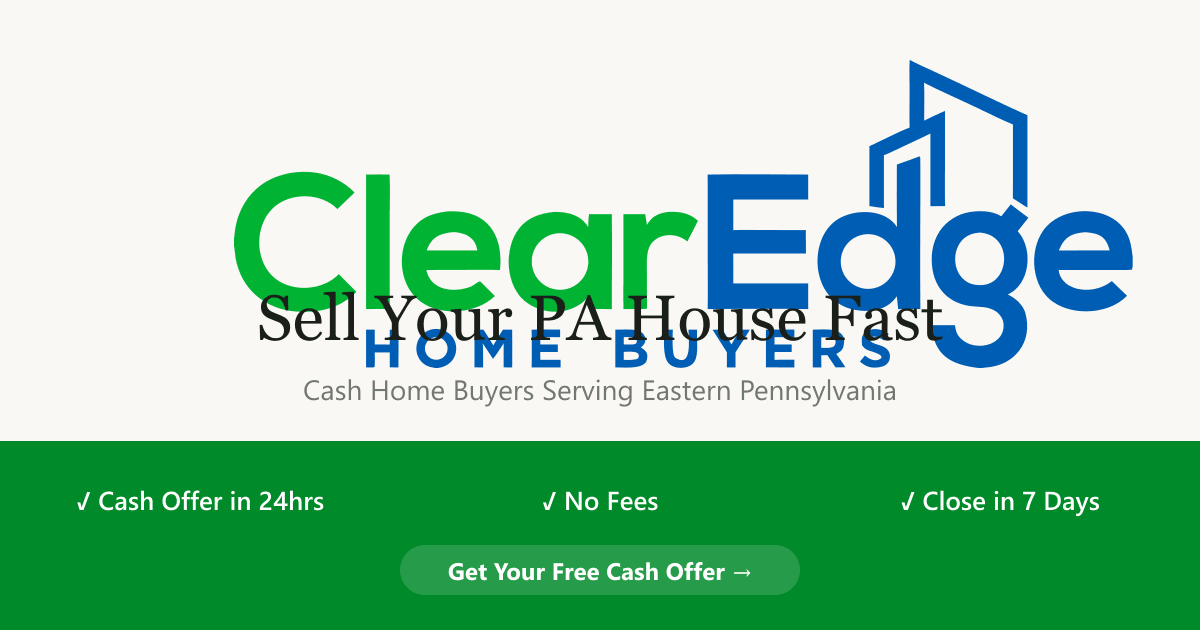
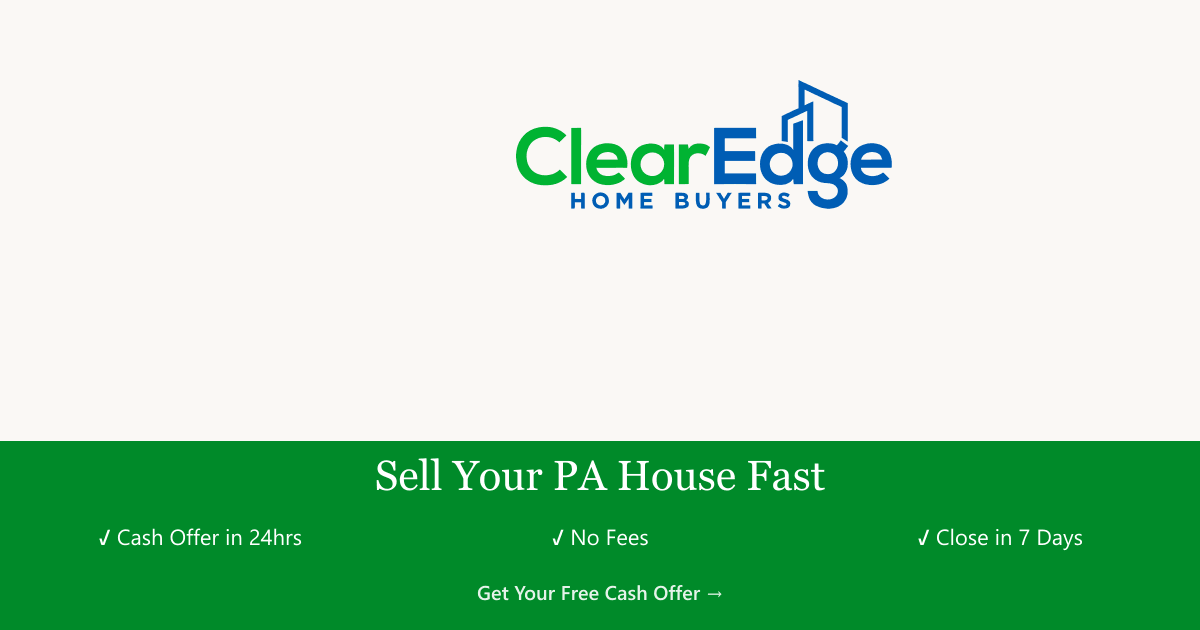
Fix OG image design and shorten title
1. Shorten OG title to under 60 chars:
   - "Sell Your PA House Fast for Cash | ClearEdge" (45 chars)
   - Updated in page title, openGraph, and added twitter metadata

2. Redesign OG image layout:
   - Top 70%: Beige (#FAF8F5) with small centered logo (~170px)
   - Bottom 30%: Green bar (#008a29) with:
     - "Sell Your PA House Fast" headline (white, serif)
     - Trust badges: Cash Offer in 24hrs, No Fees, Close in 7 Days
     - CTA: "Get Your Free Cash Offer →"
   - Clean spacing, no overlapping elements
   - Dimensions: 1200x630px, 11.1KB

diff --git a/src/app/page.tsx b/src/app/page.tsx
@@ -33,11 +33,11 @@ import { V0ClosingSeo } from '@/components/v0-closing-seo'
 import { V0Footer } from '@/components/v0-footer'
 
 export const metadata: Metadata = {
-  title: "Sell Your Pennsylvania House Fast for Cash | ClearEdge Home Buyers",
+  title: "Sell Your PA House Fast for Cash | ClearEdge",
   description: "Get a fair cash offer in 24 hours. No repairs, no agents, no fees. ClearEdge has helped 200+ Eastern PA homeowners since 2016.",
   keywords: ["sell house fast Pennsylvania", "cash home buyers PA", "we buy houses Scranton", "sell house as-is Allentown", "cash offer Lehigh Valley", "sell inherited house PA"],
   openGraph: {
-    title: "Sell Your Pennsylvania House Fast for Cash | ClearEdge Home Buyers",
+    title: "Sell Your PA House Fast for Cash | ClearEdge",
     description: "Get a fair cash offer in 24 hours. No repairs, no agents, no fees. Serving NEPA, Lehigh Valley & Poconos since 2016.",
     url: "https://www.clearedgehomebuyers.com",
     siteName: "ClearEdge Home Buyers",
@@ -51,6 +51,12 @@ export const metadata: Metadata = {
         alt: 'ClearEdge Home Buyers - Sell Your House Fast for Cash in Pennsylvania',
       },
     ],
+  },
+  twitter: {
+    card: "summary_large_image",
+    title: "Sell Your PA House Fast for Cash | ClearEdge",
+    description: "Get a fair cash offer in 24 hours. No repairs, no agents, no fees. Serving NEPA, Lehigh Valley & Poconos since 2016.",
+    images: ['https://www.clearedgehomebuyers.com/og-image.png'],
   },
 }
 
